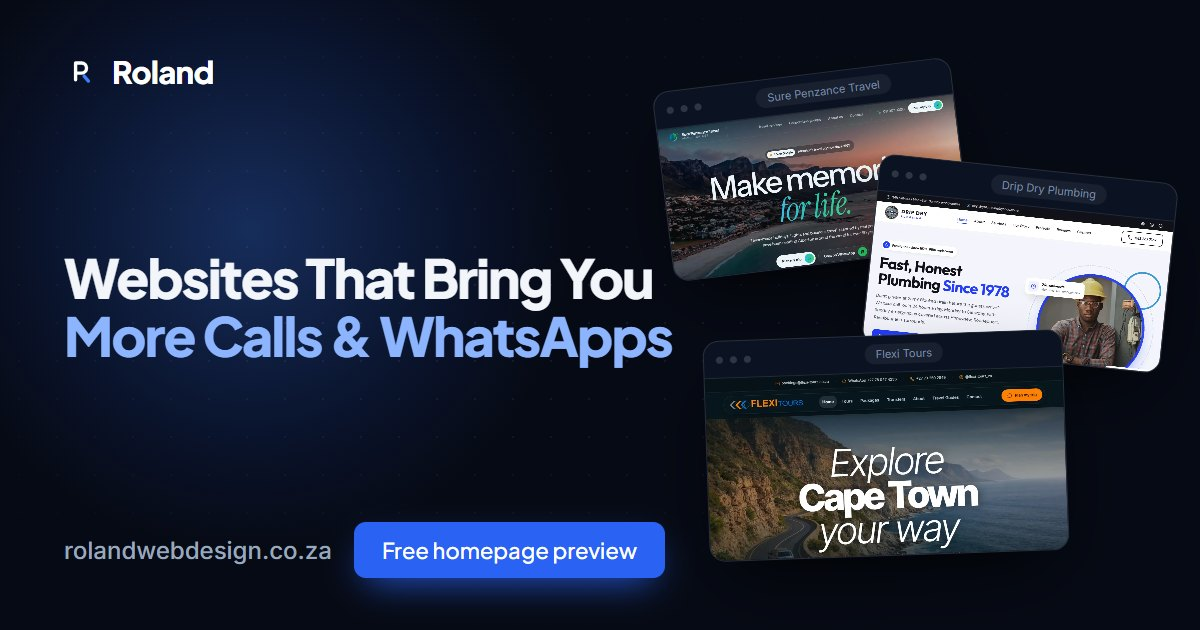
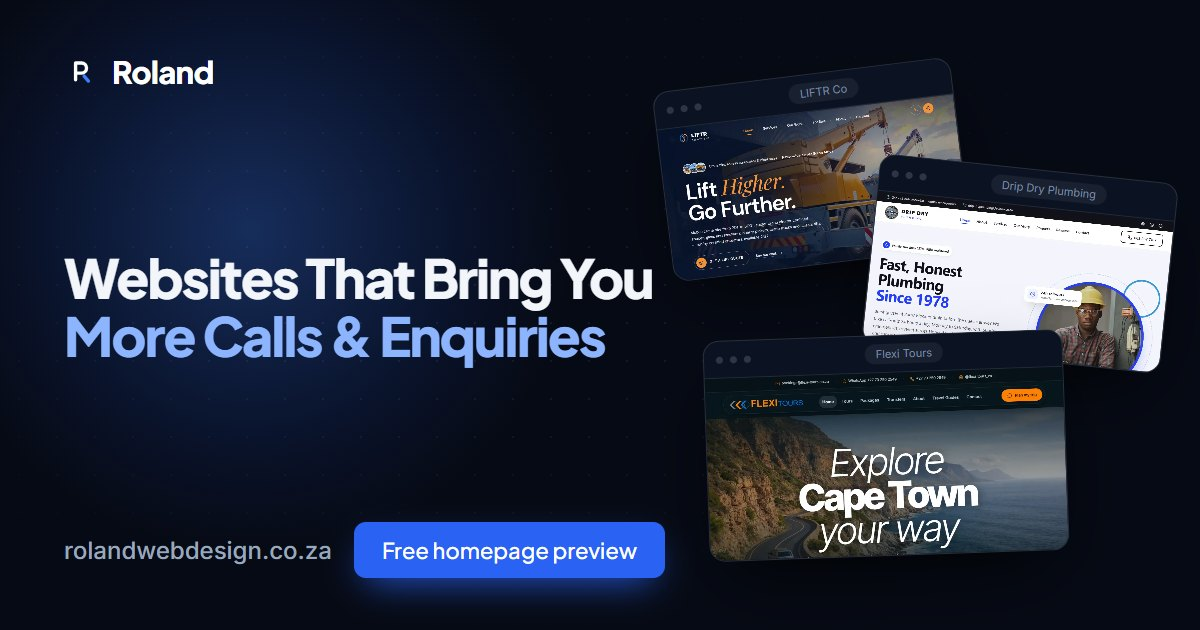
Open the site up to US clients as well as South African ones
Roland is starting to sell into the US, so the pitch copy no longer
names a country: the title, hero, About heading, Work intro and footer
talk about growing businesses, while About and the FAQ say plainly that
he works with clients in South Africa, the US and beyond, remotely.

Two things would have cost him US enquiries outright. The headline
promised "More Calls & WhatsApps", which means little outside markets
where WhatsApp is the default, so it now reads "More Calls & Enquiries"
— WhatsApp stays as a contact button, and the project write-ups keep
their WhatsApp mentions because that is what those sites actually do.
And his number was shown as 064 070 3335, which an overseas visitor
cannot dial; it is now +27 64 070 3335.

Also adds the time zone to the response time, says where he is in full
on the contact card, widens the form's phone and website fields beyond
SA formats, lists the United States in areaServed, and redraws the
share card with the new headline.

Changed region(s): [[0.5242, 0.1206, 0.9867, 0.6032], [0.3083, 0.4825, 0.5858, 0.573], [0.8325, 0.3317, 0.8633, 0.3619]]

diff --git a/src/content.ts b/src/content.ts
@@ -23,13 +23,13 @@ export const site = {
   // Switch to hello@rolandwebdesign.co.za once the domain and mailbox are set up
   email: 'rolandvtonder@gmail.com',
   whatsapp: {
-    display: '064 070 3335',
+    display: '+27 64 070 3335',
     number: '27640703335', // international format (27 + number without the leading 0) for wa.me links
     message: 'Hi Roland, I’d like to chat about a website.', // pre-filled when a visitor opens the chat
   },
-  location: 'Alberton, Johannesburg',
+  location: 'Alberton, Johannesburg, South Africa',
   availability: 'Available for projects',
-  responseTime: 'I reply within one business day',
+  responseTime: 'I reply within one business day (SAST / GMT+2)',
   // Paste a free Web3Forms access key (https://web3forms.com) to receive form
   // submissions straight to your inbox. Leave it empty and the contact form
   // opens the visitor's email app with their message ready to send instead.
@@ -59,10 +59,10 @@ export const navLinks = [
 export const hero = {
   badge: 'Available for new projects',
   title: 'Websites That Bring You',
-  titleAccent: 'More Calls & WhatsApps',
+  titleAccent: 'More Calls & Enquiries',
   primaryCta: { label: 'Get a free homepage preview', href: '#contact' },
   blurb:
-    'I design and build fast, modern websites for businesses across South Africa, and I’ll design your homepage first so you can see your new site before you spend a cent.',
+    'I design and build fast, modern websites for growing businesses, and I’ll design your homepage first so you can see your new site before you spend a cent.',
 }
 
 // ── Work ─────────────────────────────────────────────────────────────────
@@ -184,7 +184,7 @@ export const processSteps = [
   },
   {
     title: 'Ongoing support',
-    text: 'Need a change later? Just WhatsApp me. Optional care plans keep everything updated and secure.',
+    text: 'Need a change later? Just email or WhatsApp me. Optional care plans keep everything updated and secure.',
   },
 ]
 
@@ -237,10 +237,10 @@ export const services: { icon: Icon; title: string; description: string; tags: s
 // ── About ────────────────────────────────────────────────────────────────
 export const about = {
   title: 'Hi, I’m Roland.',
-  subtitle: 'I help South African businesses win more work online.',
+  subtitle: 'I help growing businesses win more work online.',
   // Draft story: add a personal touch (how you started, what you enjoy) whenever you like.
   paragraphs: [
-    'I’m a web designer and developer based in Alberton, Johannesburg, and I work with businesses right across South Africa. I build fast, modern websites for everyone from plumbers and electricians to travel agencies, event companies and crane hire firms, designed to turn visitors into calls, WhatsApps and bookings.',
+    'I’m a web designer and developer based in Johannesburg, South Africa, and I work with clients across South Africa, the United States and beyond — all remotely. I build fast, modern websites for everyone from plumbers and electricians to travel agencies, event companies and crane hire firms, designed to turn visitors into calls, enquiries and bookings.',
     'Every project starts the same way: I design a free preview of your homepage, so you can see exactly what you’re getting before you spend a cent. If you love it, I build the rest, take it live and stay just a WhatsApp away for changes.',
   ],
   // PLACEHOLDER: put your photo in /public (e.g. /public/roland.jpg) and set photo: '/roland.jpg'
@@ -282,8 +282,8 @@ export const faqs = [
       'Every site is built to be fast, mobile-friendly and search-ready, with proper page titles and descriptions. I’ll also help you set up your Google Business Profile so you can appear in local searches and on Google Maps.',
   },
   {
-    question: 'Do you work with businesses outside Johannesburg?',
+    question: 'Do you work with clients outside South Africa?',
     answer:
-      'Yes. I work with businesses all over South Africa — from Cape Town to Johannesburg — over WhatsApp, email and video calls. I’m based in Alberton, Johannesburg, so I’m also happy to meet Gauteng clients in person.',
+      'Yes. I’m based in Johannesburg, South Africa, and I work with clients there, in the United States and further afield, entirely remotely over email, video calls and WhatsApp. I’m two hours ahead of UK time and seven ahead of New York, so I keep my mornings free for calls that suit you. Gauteng clients are welcome to meet in person.',
   },
 ]

diff --git a/index.html b/index.html
@@ -5,11 +5,11 @@
     <link rel="icon" type="image/svg+xml" href="/favicon.svg" />
     <meta name="viewport" content="width=device-width, initial-scale=1.0" />
     <meta name="theme-color" content="#060A14" />
-    <title>Roland Web Design | Websites for South African Businesses</title>
-    <meta name="description" content="Roland Web Design builds fast, modern websites for businesses across South Africa. Start with a free homepage preview and see your new site before you pay." />
+    <title>Roland Web Design | Websites for Growing Businesses</title>
+    <meta name="description" content="Roland Web Design builds fast, modern websites for growing businesses worldwide. Start with a free homepage preview and see your new site before you pay." />
     <link rel="canonical" href="https://rolandwebdesign.co.za/" />
-    <meta property="og:title" content="Roland Web Design | Websites for South African Businesses" />
-    <meta property="og:description" content="Fast, modern websites that bring South African businesses more calls and WhatsApps. Start with a free homepage preview." />
+    <meta property="og:title" content="Roland Web Design | Websites for Growing Businesses" />
+    <meta property="og:description" content="Fast, modern websites that bring growing businesses more calls and enquiries. Start with a free homepage preview." />
     <meta property="og:site_name" content="Roland Web Design" />
     <meta property="og:type" content="website" />
     <meta property="og:url" content="https://rolandwebdesign.co.za/" />
@@ -18,7 +18,7 @@
     <meta property="og:image" content="https://rolandwebdesign.co.za/og-image.jpg" />
     <meta property="og:image:width" content="1200" />
     <meta property="og:image:height" content="630" />
-    <meta property="og:image:alt" content="Roland Web Design — websites that bring South African businesses more calls and WhatsApps" />
+    <meta property="og:image:alt" content="Roland Web Design — websites that bring growing businesses more calls and enquiries" />
     <meta name="twitter:card" content="summary_large_image" />
     <!-- Tells Google what the business does and where it works -->
     <script type="application/ld+json">
@@ -26,7 +26,7 @@
         "@context": "https://schema.org",
         "@type": "ProfessionalService",
         "name": "Roland Web Design",
-        "description": "Web design and development for businesses across South Africa.",
+        "description": "Web design and development for growing businesses, working remotely with clients in South Africa, the United States and beyond.",
         "url": "https://rolandwebdesign.co.za/",
         "image": "https://rolandwebdesign.co.za/og-image.jpg",
         "telephone": "+27640703335",
@@ -38,8 +38,8 @@
         },
         "areaServed": [
           { "@type": "Country", "name": "South Africa" },
-          { "@type": "City", "name": "Johannesburg" },
-          { "@type": "City", "name": "Alberton" }
+          { "@type": "Country", "name": "United States" },
+          { "@type": "City", "name": "Johannesburg" }
         ],
         "serviceType": ["Web design", "Web development", "E-commerce", "SEO"]
       }

diff --git a/src/components/Contact.tsx b/src/components/Contact.tsx
@@ -136,7 +136,7 @@ export default function Contact() {
         `Name: ${v.name}`,
         `Business: ${v.business}`,
         `Email: ${v.email}`,
-        ...(v.phone ? [`WhatsApp / phone: ${v.phone}`] : []),
+        ...(v.phone ? [`Phone / WhatsApp: ${v.phone}`] : []),
         ...(v.website ? [`Current website: ${v.website}`] : []),
         '',
         v.message,
@@ -320,13 +320,13 @@ export default function Contact() {
                     <FieldShell id="contact-email" label="Email" required error={shownError('email')}>
                       <input ref={emailRef} type="email" inputMode="email" autoComplete="email" required placeholder="jane@company.com" {...fieldProps('email')} />
                     </FieldShell>
-                    <FieldShell id="contact-phone" label="WhatsApp number" hint="Optional" error={shownError('phone')}>
-                      <input ref={phoneRef} type="tel" inputMode="tel" autoComplete="tel" placeholder="082 123 4567" {...fieldProps('phone')} />
+                    <FieldShell id="contact-phone" label="Phone or WhatsApp" hint="Optional" error={shownError('phone')}>
+                      <input ref={phoneRef} type="tel" inputMode="tel" autoComplete="tel" placeholder="+27 82 123 4567" {...fieldProps('phone')} />
                     </FieldShell>
                   </div>
 
                   <FieldShell id="contact-website" label="Current website" hint="Optional">
-                    <input type="text" inputMode="url" autoComplete="url" placeholder="yourbusiness.co.za, or leave blank if you don’t have one" {...fieldProps('website')} />
+                    <input type="text" inputMode="url" autoComplete="url" placeholder="yourbusiness.com, or leave blank if you don’t have one" {...fieldProps('website')} />
                   </FieldShell>
 
                   <FieldShell id="contact-message" label="About your business" required error={shownError('message')}>

diff --git a/src/components/Work.tsx b/src/components/Work.tsx
@@ -8,7 +8,7 @@ export default function Work() {
   return (
     <section id="work" aria-labelledby="work-title" className="relative px-gutter pt-24 pb-28 md:pt-32 md:pb-36">
       <SectionHeading id="work-title" index="01" label="Selected Work" title="Recent work." subtitle="Sites that look sharp and work hard.">
-        Client work and concept redesigns for businesses around South Africa, every one designed and built by me. Hover over a preview to scroll through the page, or click to explore the site.
+        Client work and concept redesigns across travel, trades, events and industry, every one designed and built by me. Hover over a preview to scroll through the page, or click to explore the site.
       </SectionHeading>
 
       <ul className="mt-16 grid grid-cols-1 gap-x-8 gap-y-16 md:grid-cols-2 lg:mt-20">

diff --git a/src/components/Footer.tsx b/src/components/Footer.tsx
@@ -17,7 +17,7 @@ export default function Footer() {
             <span className="font-display text-2xl font-extrabold tracking-[-0.02em] text-white">{site.name}</span>
           </a>
           <p className="mt-5 max-w-sm text-[15px] leading-relaxed text-ink-muted">
-            Websites that bring South African businesses more calls and WhatsApps. Start with a free homepage preview.
+            Websites that bring growing businesses more calls and enquiries. Start with a free homepage preview.
           </p>
           <PillLink href={previewCta.href} className="mt-8">
             {previewCta.label}
